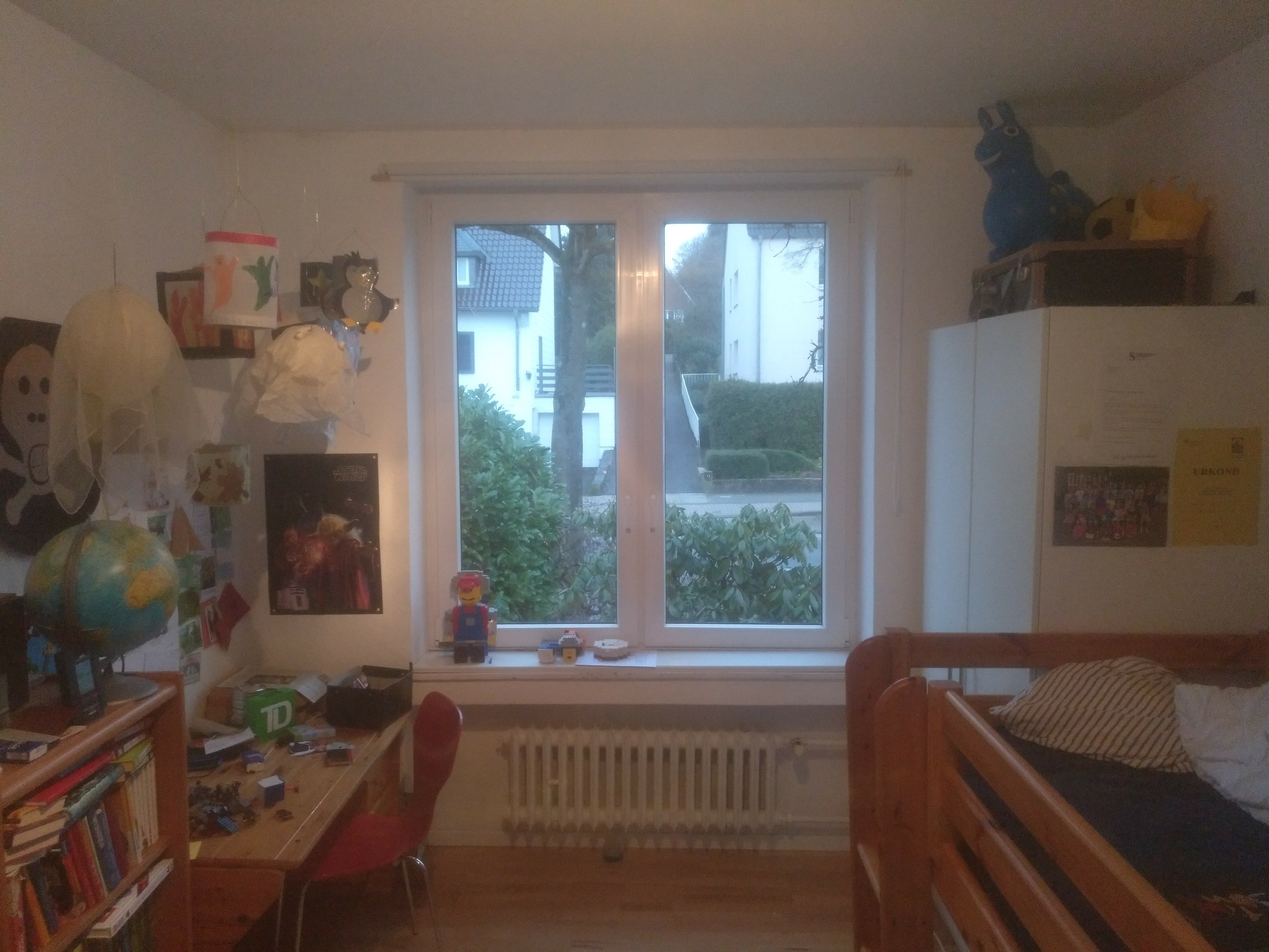
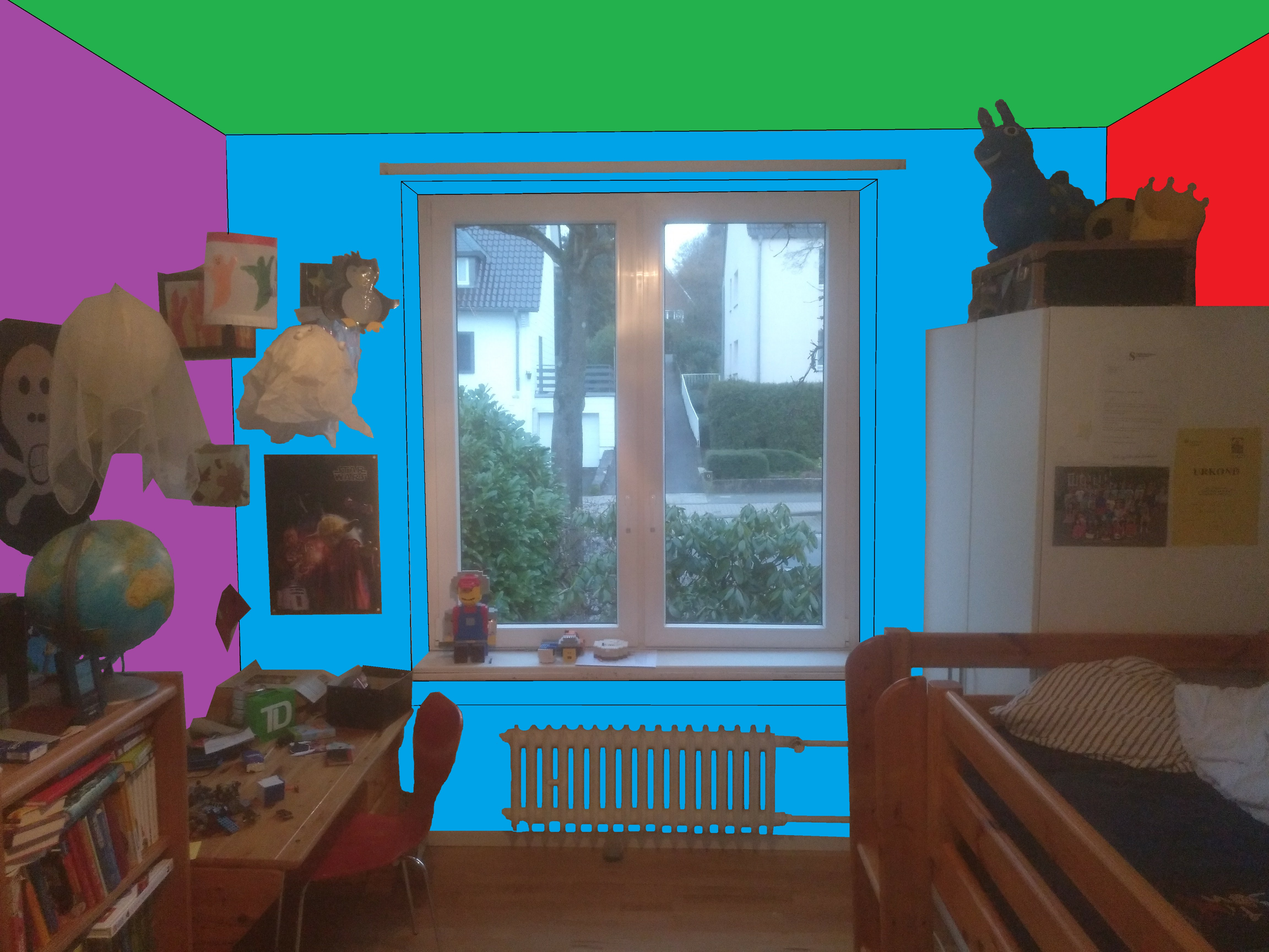
added image editing

diff --git a/src/imagecolorchanger/ColorMapper.java b/src/imagecolorchanger/ColorMapper.java
@@ -1,0 +1,43 @@
+package imagecolorchanger;
+
+import java.awt.Color;
+import java.awt.image.LookupTable;
+import java.util.Arrays;
+
+public class ColorMapper
+extends LookupTable {
+
+    private final int[] from;
+    private final int[] to;
+
+    public ColorMapper(Color from,
+                       Color to) {
+        super(0, 4);
+
+        this.from = new int[] {
+            from.getRed(),
+            from.getGreen(),
+            from.getBlue(),
+            from.getAlpha(),
+        };
+        this.to = new int[] {
+            to.getRed(),
+            to.getGreen(),
+            to.getBlue(),
+            to.getAlpha(),
+        };
+    }
+
+    @Override
+    public int[] lookupPixel(int[] src,
+                             int[] dest) {
+        if (dest == null) {
+            dest = new int[src.length];
+        }
+
+        int[] newColor = (Arrays.equals(src, from) ? to : src);
+        System.arraycopy(newColor, 0, dest, 0, newColor.length);
+
+        return dest;
+    }
+}

diff --git a/src/imagecolorchanger/Main.java b/src/imagecolorchanger/Main.java
@@ -42,5 +42,23 @@ public class Main {
 
 	    return resizedImg;
 	}
+	
+	public static BufferedImage toBufferedImage(Image img)
+	{
+	    if (img instanceof BufferedImage)
+	    {
+	        return (BufferedImage) img;
+	    }
 
+	    // Create a buffered image with transparency
+	    BufferedImage bimage = new BufferedImage(img.getWidth(null), img.getHeight(null), BufferedImage.TYPE_INT_ARGB);
+
+	    // Draw the image on to the buffered image
+	    Graphics2D bGr = bimage.createGraphics();
+	    bGr.drawImage(img, 0, 0, null);
+	    bGr.dispose();
+
+	    // Return the buffered image
+	    return bimage;
+	}
 }
